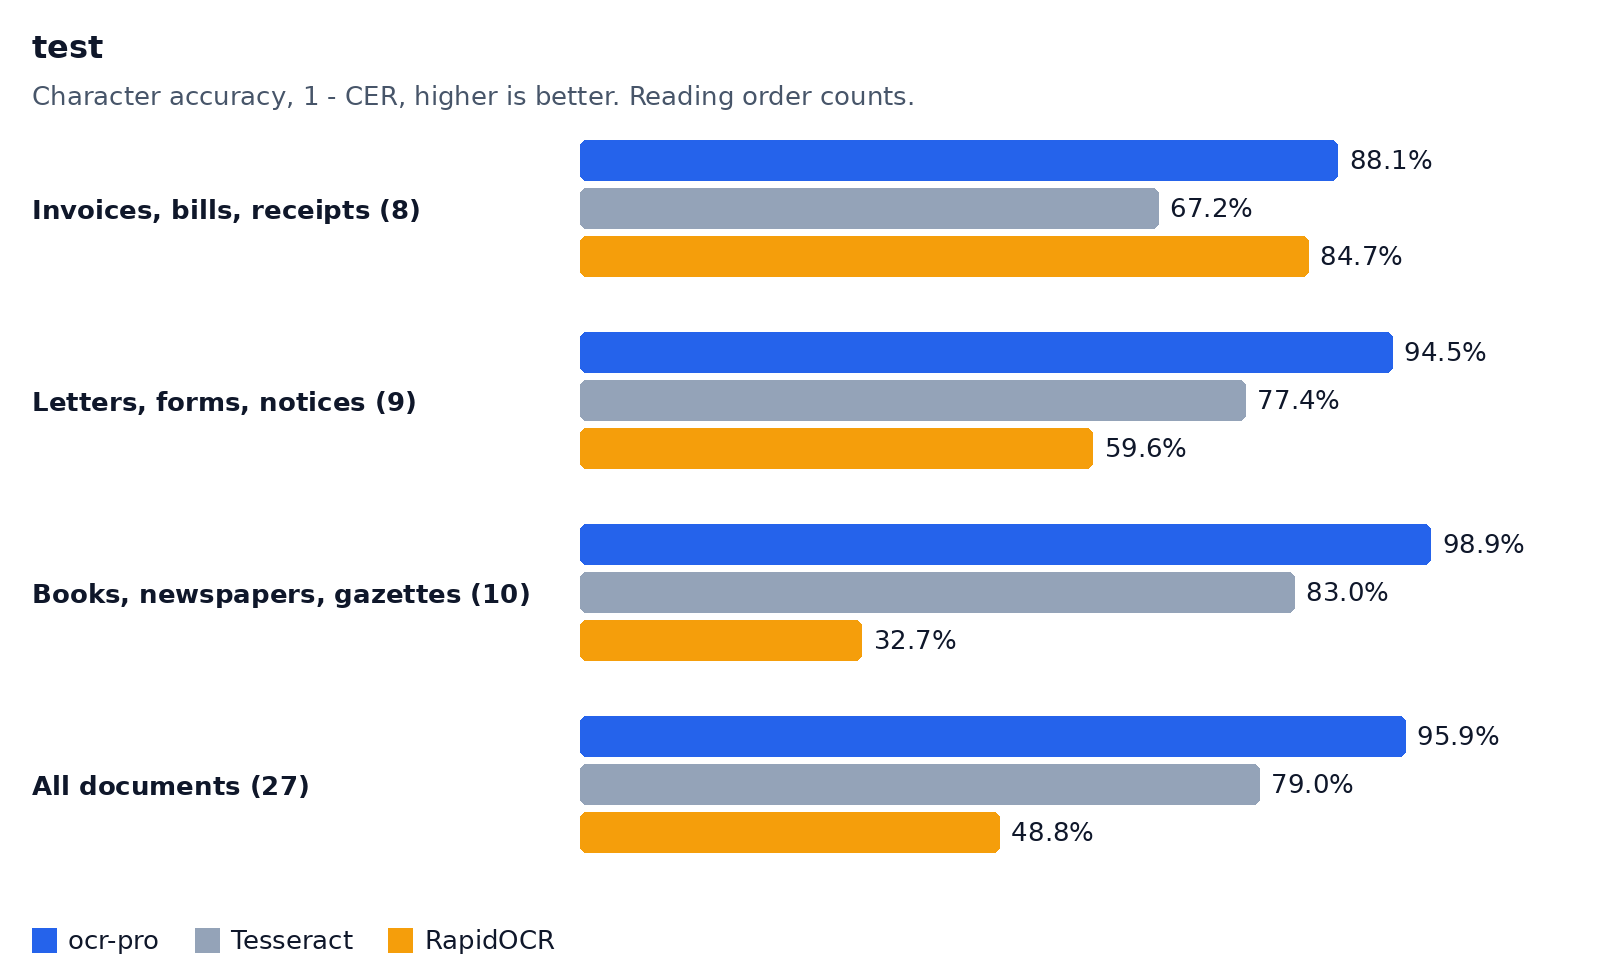
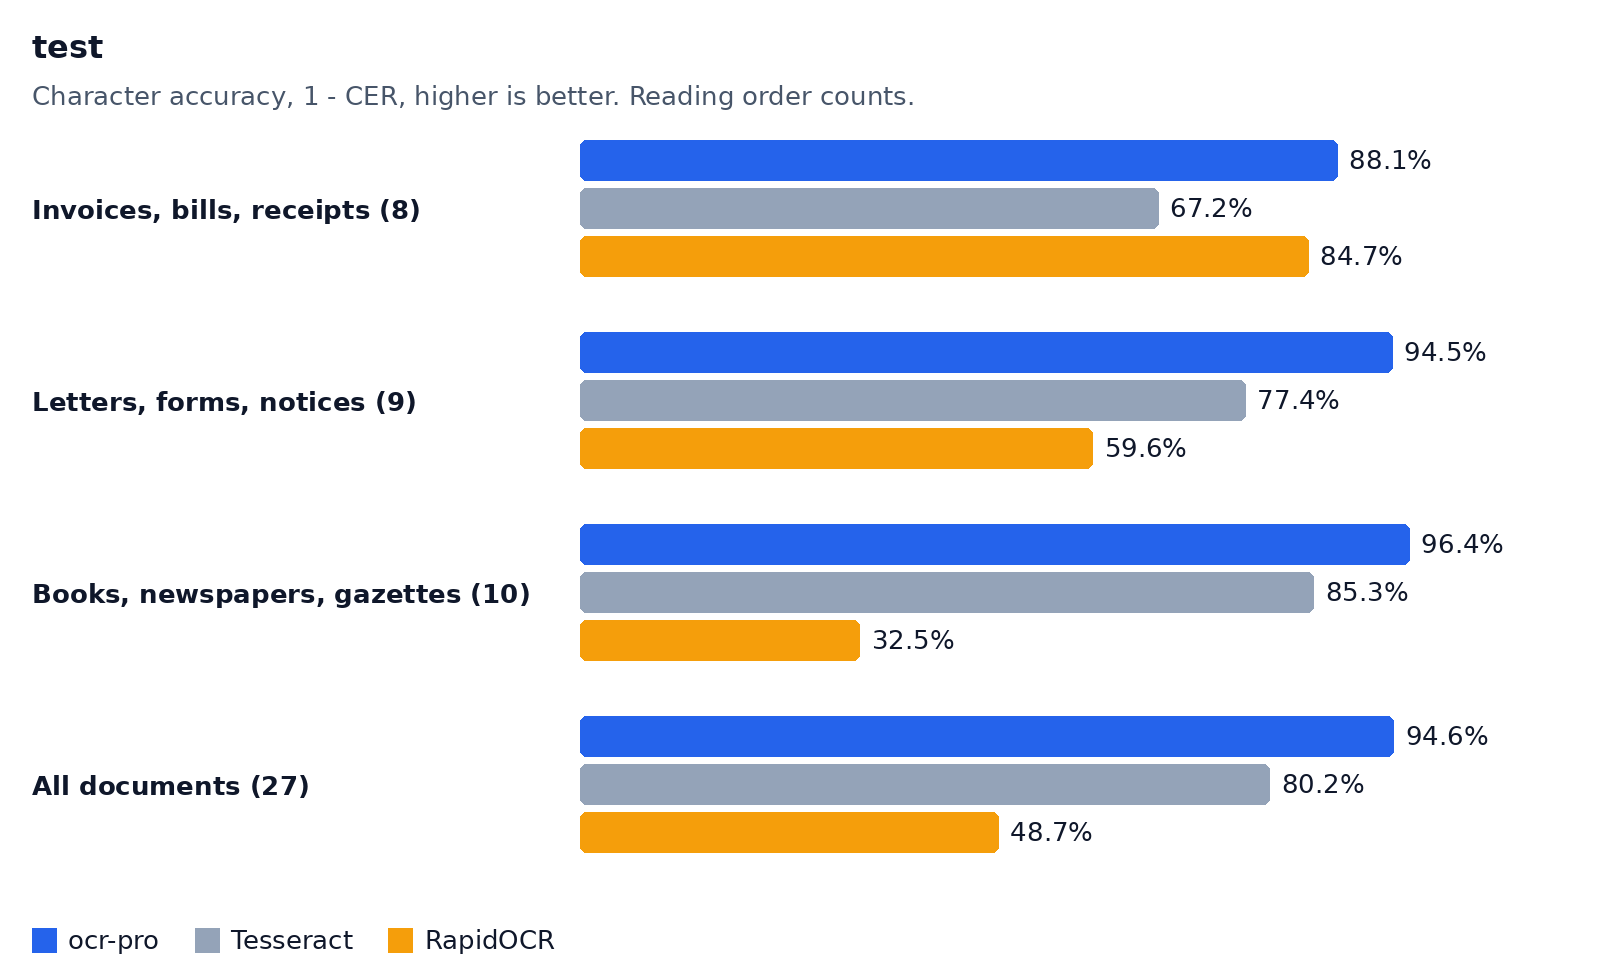
Check the older references of dev, test and part of test2 a second time: five characters, and one reading order that hid a fault of the engine.

diff --git a/docs/benchmark.md b/docs/benchmark.md
@@ -226,6 +226,18 @@ Per document, CER / word F1:
 
 ## Results on `test`
 
+**One reference of `test` was wrong until 2026-11-15, and the numbers below are from after its
+correction.** On page 42 of the Encyklopedja staropolska a photograph is set across both
+columns and both columns run on below it; the reference read the upper halves of the two
+columns, the caption, then the lower halves, which cuts three sentences. The rules say a figure
+across the columns does not split them. With the lines in the order of the columns, ocr-pro
+reads that page at 0.408 where it scored 0.005, because it too splits the columns at the
+photograph, and Tesseract at 0.036 where it scored 0.408. The pooled CER of ocr-pro on `test`
+is therefore 0.054 and not 0.041 (Polish profile 0.051, not 0.038), and Tesseract's 0.198, not
+0.210. Sentences elsewhere in this document that give 0.041 for `test` were written before the
+correction. The engine's outputs are the ones of that morning; only the references changed
+(this page, and on `dev` three small corrections that leave its pooled CER at 0.049).
+
 Scored on 2026-11-15 with the engine of that day (every change described in this document,
 the defaults since 2026-11-14 among them). Tesseract and RapidOCR were run again the same night
 and give what they gave before. Page times are left out of the tables of `test` and `dev`:
@@ -236,23 +248,23 @@ at a time but not on an idle machine; those numbers are under "Speed" in "What t
 
 | Engine | CER pooled (pl / en / all) | CER median | Word F1 pooled (pl / en / all) |
 | --- | --- | --- | --- |
-| ocr-pro | 0.048 / 0.023 / 0.041 | 0.021 | 0.915 / 0.963 / 0.931 |
-| ocr-pro + polish | 0.046 / 0.021 / 0.038 | 0.021 | 0.935 / 0.972 / 0.947 |
-| ocr-pro, fast (960 px) | 0.060 / 0.023 / 0.049 | 0.022 | 0.897 / 0.960 / 0.918 |
-| ocr-pro, rows (`--layout rows`) | 0.511 / 0.502 / 0.508 | 0.152 | 0.915 / 0.963 / 0.931 |
-| ocr-pro, Latin alphabet (`--alphabet latin`) | 0.049 / 0.023 / 0.041 | 0.021 | 0.915 / 0.963 / 0.931 |
-| RapidOCR (same models) | 0.514 / 0.508 / 0.512 | 0.237 | 0.914 / 0.958 / 0.929 |
-| Tesseract 5 | 0.237 / 0.148 / 0.210 | 0.149 | 0.840 / 0.883 / 0.854 |
+| ocr-pro | 0.067 / 0.023 / 0.054 | 0.022 | 0.915 / 0.963 / 0.931 |
+| ocr-pro + polish | 0.064 / 0.021 / 0.051 | 0.022 | 0.935 / 0.972 / 0.947 |
+| ocr-pro, fast (960 px) | 0.079 / 0.023 / 0.062 | 0.026 | 0.897 / 0.960 / 0.918 |
+| ocr-pro, rows (`--layout rows`) | 0.513 / 0.502 / 0.510 | 0.152 | 0.915 / 0.963 / 0.931 |
+| ocr-pro, Latin alphabet (`--alphabet latin`) | 0.067 / 0.023 / 0.054 | 0.022 | 0.915 / 0.963 / 0.931 |
+| RapidOCR (same models) | 0.516 / 0.508 / 0.513 | 0.237 | 0.914 / 0.958 / 0.929 |
+| Tesseract 5 | 0.219 / 0.148 / 0.198 | 0.137 | 0.839 / 0.883 / 0.854 |
 
 | Engine | Invoices, bills, receipts (8) | Letters, forms, notices (9) | Books, newspapers, gazettes (10) | Mean of groups |
 | --- | --- | --- | --- | --- |
-| ocr-pro | 0.119 | 0.055 | 0.011 | 0.062 |
-| ocr-pro + polish | 0.116 | 0.054 | 0.008 | 0.059 |
-| ocr-pro, fast (960 px) | 0.129 | 0.079 | 0.010 | 0.073 |
-| ocr-pro, rows (`--layout rows`) | 0.124 | 0.403 | 0.673 | 0.400 |
-| ocr-pro, Latin alphabet (`--alphabet latin`) | 0.119 | 0.055 | 0.011 | 0.062 |
-| RapidOCR (same models) | 0.153 | 0.404 | 0.673 | 0.410 |
-| Tesseract 5 | 0.328 | 0.226 | 0.170 | 0.241 |
+| ocr-pro | 0.119 | 0.055 | 0.036 | 0.070 |
+| ocr-pro + polish | 0.116 | 0.054 | 0.033 | 0.068 |
+| ocr-pro, fast (960 px) | 0.129 | 0.079 | 0.035 | 0.081 |
+| ocr-pro, rows (`--layout rows`) | 0.125 | 0.403 | 0.676 | 0.401 |
+| ocr-pro, Latin alphabet (`--alphabet latin`) | 0.119 | 0.055 | 0.036 | 0.070 |
+| RapidOCR (same models) | 0.153 | 0.404 | 0.675 | 0.411 |
+| Tesseract 5 | 0.328 | 0.226 | 0.147 | 0.234 |
 
 Per document, CER / word F1:
 
@@ -271,7 +283,7 @@ Per document, CER / word F1:
 | pl-cennik-nr7-poznan-1937-s67 | 0.167 / 0.630 | 0.179 / 0.649 | 0.167 / 0.630 | 0.237 / 0.611 | 0.313 / 0.429 |
 | pl-dziennik-ustaw-1952-s374 | 0.019 / 0.888 | 0.026 / 0.878 | 0.751 / 0.888 | 0.750 / 0.879 | 0.057 / 0.845 |
 | pl-dziennik-ustaw-1994-s302 | 0.002 / 0.995 | 0.002 / 0.995 | 0.727 / 0.995 | 0.732 / 0.994 | 0.001 / 0.991 |
-| pl-encyklopedja-staropolska-1900-s42 | 0.005 / 0.962 | 0.007 / 0.951 | 0.713 / 0.962 | 0.715 / 0.967 | 0.408 / 0.981 |
+| pl-encyklopedja-staropolska-1900-s42 | 0.408 / 0.962 | 0.410 / 0.951 | 0.752 / 0.962 | 0.752 / 0.967 | 0.036 / 0.981 |
 | pl-faktura-pge-specyfikacja-2019 | 0.132 / 0.869 | 0.131 / 0.782 | 0.126 / 0.869 | 0.159 / 0.855 | 0.273 / 0.594 |
 | pl-obwieszczenie-stan-wojenny-1981 | 0.075 / 0.899 | 0.129 / 0.836 | 0.649 / 0.899 | 0.619 / 0.919 | 0.493 / 0.849 |
 | pl-odezwa-zhp-lodz-1935 | 0.017 / 0.969 | 0.029 / 0.957 | 0.768 / 0.969 | 0.768 / 0.967 | 0.009 / 0.967 |
@@ -280,7 +292,7 @@ Per document, CER / word F1:
 | pl-pismo-msz-ambasada-palestyny-2010 | 0.111 / 0.920 | 0.097 / 0.927 | 0.111 / 0.920 | 0.142 / 0.903 | 0.105 / 0.819 |
 | pl-pismo-umwp-2026 | 0.007 / 0.990 | 0.010 / 0.962 | 0.007 / 0.990 | 0.007 / 0.990 | 0.013 / 0.975 |
 | pl-rachunek-hurtownia-slupsk-1948 | 0.152 / 0.821 | 0.305 / 0.768 | 0.152 / 0.821 | 0.246 / 0.810 | 0.683 / 0.612 |
-| pl-rachunek-mennica-1931 | 0.444 / 0.785 | 0.442 / 0.757 | 0.444 / 0.785 | 0.490 / 0.758 | 0.683 / 0.489 |
+| pl-rachunek-mennica-1931 | 0.445 / 0.778 | 0.443 / 0.750 | 0.445 / 0.778 | 0.491 / 0.752 | 0.684 / 0.482 |
 | pl-slownik-staropolski-arct-s479 | 0.050 / 0.884 | 0.011 / 0.906 | 0.726 / 0.884 | 0.724 / 0.893 | 0.726 / 0.571 |
 | pl-slownik-uczonych-zydow-1905-s11 | 0.009 / 0.961 | 0.010 / 0.971 | 0.009 / 0.961 | 0.010 / 0.957 | 0.010 / 0.980 |
 | pl-statut-zhp-1936-s8 | 0.014 / 0.903 | 0.011 / 0.914 | 0.014 / 0.903 | 0.037 / 0.930 | 0.024 / 0.910 |

diff --git a/docs/HANDOFF.md b/docs/HANDOFF.md
@@ -7,14 +7,17 @@ and the working method.
 **Where things stand on the morning of 2026-11-15** (the dated paragraphs below have the detail):
 
 - `dev` has 105 documents, 66 of them business documents; `test` 27. Default profile: `dev`
-  0.049, `test` 0.041 (Tesseract 0.146 and 0.210). `test2` 0.062 (Tesseract 0.070), `test3`
+  0.049, `test` 0.054 (Tesseract 0.146 and 0.198; `test` was 0.041 and 0.210 until one of its
+  references was corrected, see "References checked again"). `test2` 0.062 (Tesseract 0.070), `test3`
   0.130 (0.158). All four sets were scored with the engine of db94086 and the tables of
   docs/benchmark.md are rebuilt.
 - A page is set right before it is read: turned, levelled, laid flat when photographed from
   the side, enlarged when small, shrunk when too large for the heap.
 - Blocks side by side are columns, rows of cells or neither by two rules built on the business
   documents; plain rows now beat the layout analysis by ten edits or more on three pages.
-- Open, in the order it would pay: the 1859 note and other rows that would read better as
+- Open, in the order it would pay: a figure set across two columns, which the engine takes
+  for the end of a band where the columns run on below it (Encyklopedja staropolska in `test`,
+  0.408; "References checked again"), the 1859 note and other rows that would read better as
   blocks ("Blocks side by side"), small print lost to blur and low resolution ("Pages as a
   phone photographs them"), pages photographed from below (tried and dropped), and a multi-column
   newspaper page the new rules read worse, known only from `test3` ("The held-out sets,
@@ -479,6 +482,42 @@ depending on the runner, and a limit of 180 s failed on the slower ones. The tim
 end-to-end tests pass (170 s and 70 s). These failures went unnoticed during the night: the
 runs were pushed one after another and only the last one was looked at. The Windows leg had
 passed three runs in a row and now fails the run like the others (`continue-on-error` is gone).
+
+**References checked again, 2026-11-15.** The owner said the older references had been
+written and checked by a weaker model and asked for a second check by Fable checkers, up to a
+share of his weekly allowance. Done, each line against crops of the picture, no OCR tool and no
+engine output: the first 39 documents of `dev`, all 27 of `test`, and of `test2` Scientific
+American 1850, Britannica 1911, the arXiv page and Przegląd Tygodniowy 1903 (40 of 95 tasks;
+the task list, the brief and every report are in that session's scratchpad and were not kept,
+the findings are here). Not done: the other 16 documents of `test2` and all of `test3`. The 66
+business documents of `dev` had Fable checkers when they came in.
+
+What it found, each change looked at by the main session on the picture: `dev`, Volumina Legum
+`Kòła` (grave) for `Kóła`; the Szałas receipt `EAV` for `EAU`; the ZPS diploma without `U.E.P.`,
+which is lettering inside a logo. `test`, the reading order of the Encyklopedja staropolska
+(below). `test2`, Scientific American 1850: `pnt` as printed for `put`, and a line break at
+`lower-`/`ed`. Four changes the checkers themselves called uncertain were taken back, and a fifth
+that the main session did not get to look at (Mennica 1931, line 37: `5.000.` may be `5.000-`). So the
+letters of these references were sound: five characters in 86 documents.
+
+The one finding that matters is the reading order of `pl-encyklopedja-staropolska-1900-s42`:
+its photograph sits across both columns and the columns run on below it, and the reference
+read it in two bands. Put right, ocr-pro reads the page at 0.408 (0.005 before) and Tesseract
+at 0.036 (0.408): the engine splits the columns at the picture as the old reference did. `test`
+is 0.054 for ocr-pro, not 0.041. The tables and chart of `test` and the README are rebuilt
+from the same engine outputs; `dev` did not move at three decimals; `test2` was not scored
+again (three characters). This is the first open item now: a figure across columns must not
+end a band when the lines above and below it belong to one sentence or one column.
+
+Left for the owner, because the rules do not settle them: a space before `;` `:` `!` `?` in old
+print (Bristol Mercury, Alice, about twenty a page, written closed up); turned sorts (`pnt`
+kept as printed, Arct's `suknia` printed `sukuia` left alone); the wordmark of the TPN receipt
+(lettering of a logo, in the reference); the rotated side tab "Spis treści" of the Sejm page
+and the vertical arXiv stamp of the `test2` arXiv page (printed, not in the references, the
+second not named in the notes); seven full stops of Britannica 1911 that the 1-bit scan lost;
+the e-mail footnotes of both arXiv pages, read after the right column though printed under the
+left. On the Mennica bill of `test` the rotated margin line is legible (the note says cut
+off) and the typed `28 maja` stands on a line of its own, unlike the other fill-ins.
 
 **624 new documents, 2026-11-15, waiting.** A collecting session pushed 624 business documents
 (351 Polish, 273 English: 178 forms, 177 notices, 116 letters, 86 invoices, 67 receipts)

diff --git a/README.md b/README.md
@@ -182,13 +182,15 @@ the round before and then pointed at what to fix.
 
 | Engine | `test2` CER pooled / median | `test2` word F1 | `test` CER pooled / median | `test` word F1 | Median time (`test2` / `test`) |
 | --- | ---: | ---: | ---: | ---: | ---: |
-| **ocr-pro** | **0.062 / 0.031** | **0.952** | **0.041 / 0.021** | **0.931** | 6.7 s / 3.7 s |
-| ocr-pro, `--limit 960` | 0.168 / 0.032 | 0.937 | 0.049 / 0.022 | 0.918 | 5.7 s / 2.6 s |
-| ocr-pro, `--layout rows` | 0.653 / 0.657 | 0.952 | 0.508 / 0.152 | 0.931 | about the same |
-| RapidOCR, same models on ONNX Runtime | 0.656 / 0.662 | 0.951 | 0.512 / 0.237 | 0.929 | 5.2 s / 3.7 s |
-| Tesseract 5 (`pol` / `eng`) | 0.070 / 0.033 | 0.934 | 0.210 / 0.149 | 0.854 | 3.5 s / 1.5 s |
+| **ocr-pro** | **0.062 / 0.031** | **0.952** | **0.054 / 0.022** | **0.931** | 6.7 s / 3.7 s |
+| ocr-pro, `--limit 960` | 0.168 / 0.032 | 0.937 | 0.062 / 0.026 | 0.918 | 5.7 s / 2.6 s |
+| ocr-pro, `--layout rows` | 0.653 / 0.657 | 0.952 | 0.510 / 0.152 | 0.931 | about the same |
+| RapidOCR, same models on ONNX Runtime | 0.656 / 0.662 | 0.951 | 0.513 / 0.237 | 0.929 | 5.2 s / 3.7 s |
+| Tesseract 5 (`pol` / `eng`) | 0.070 / 0.033 | 0.934 | 0.198 / 0.137 | 0.854 | 3.5 s / 1.5 s |
 
-CER counts reading order; word F1 does not. The columns of ocr-pro are from 2026-11-15; the times
+CER counts reading order; word F1 does not. The columns of ocr-pro are from 2026-11-15, the `test` ones after the
+reading order of one of its references was corrected that day (0.041 before, see the benchmark
+notes); the times
 are from 2026-10-15, before the changes of November (the benchmark notes have what was
 measured since). On the largest held-out set, `test3` (97 pages, 77 of them books and old
 newspapers), the pooled CER is 0.130 against 0.158 for Tesseract and 0.478 for RapidOCR.
